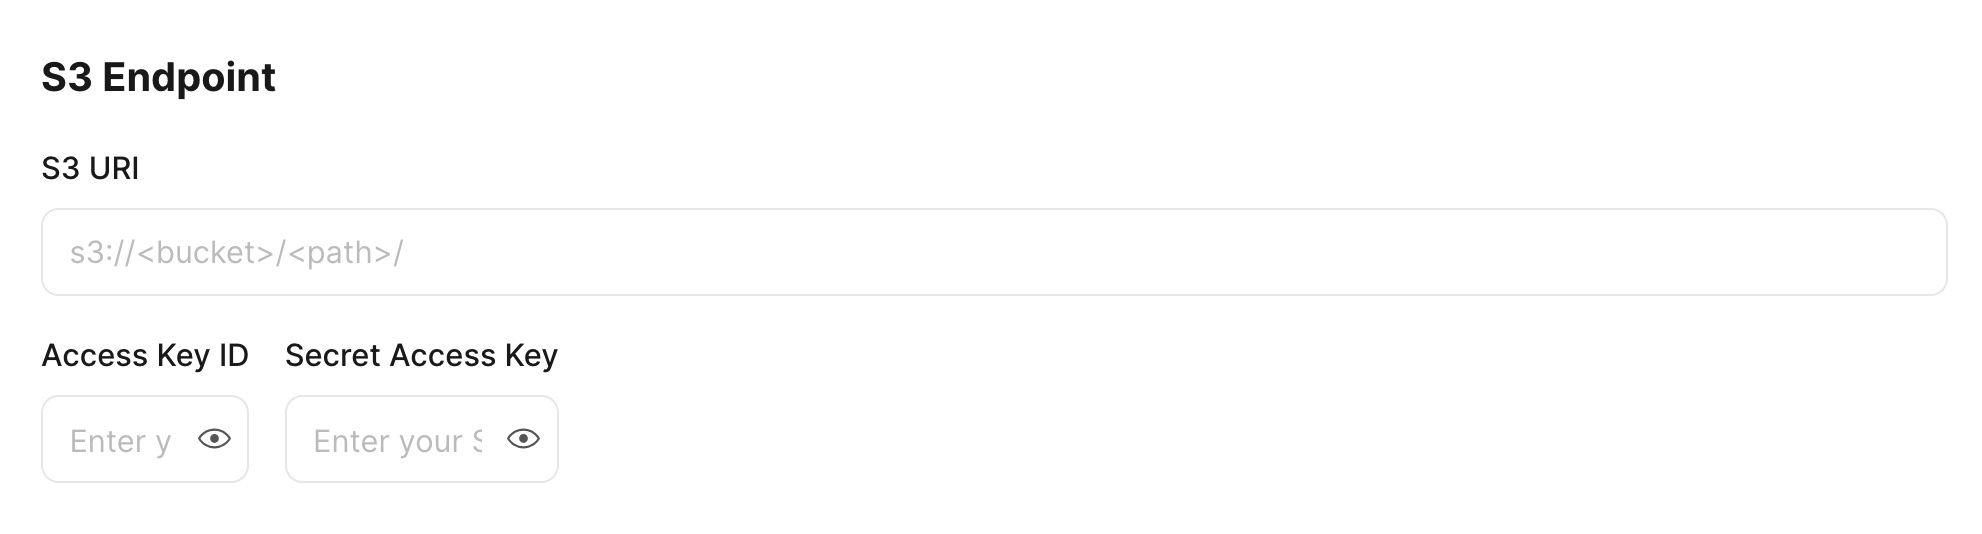
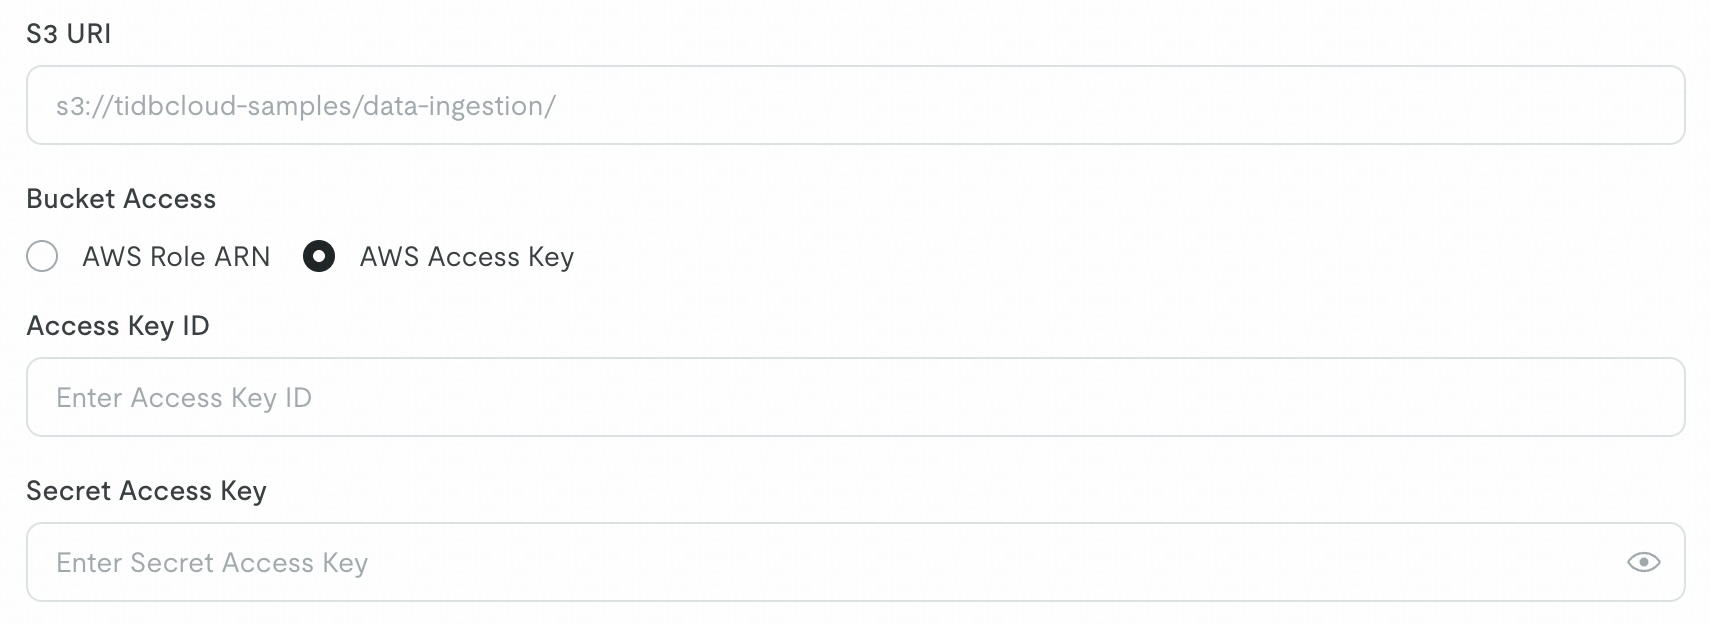
Add guide for sink to S3 with RoleARN

diff --git a/tidb-cloud/changefeed-sink-to-cloud-storage.md b/tidb-cloud/changefeed-sink-to-cloud-storage.md
@@ -25,7 +25,37 @@ Navigate to the cluster overview page of the target TiDB cluster. Click **Data**
 <SimpleTab>
 <div label="Amazon S3">
 
-For **Amazon S3**, fill the **S3 Endpoint** area: `S3 URI`, `Access Key ID`, and `Secret Access Key`. Make the S3 bucket in the same region with your TiDB cluster.
+For **Amazon S3**, you can use either **AWS Role ARN** or **AWS Access Key** for authentication. Using **AWS Role ARN** is recommended for better security and easier management.
+
+Make sure that the S3 bucket is in the same region as your TiDB cluster.
+
+#### Option 1: AWS Role ARN (Recommended)
+
+To use an IAM Role for authentication, follow these steps:
+
+1.  In the TiDB Cloud console, go to the **Configure Destination** page for the S3 sink.
+2.  Fill in the **S3 URI**.
+3.  Under **Bucket Access**, select **AWS Role ARN**.
+4.  To create a new Role ARN, click the **Click here** link to use the AWS CloudFormation template. This will automatically configure the necessary permissions.
+    - If you prefer to create the role manually, click **Create Role ARN manually** to view the TiDB Cloud account information and the required policy.
+5.  Ensure your IAM role has at least the following permissions for the target bucket:
+    - `s3:ListBucket`
+    - `s3:PutObject`
+    - `s3:GetObject`
+    - `s3:DeleteObject`
+6.  Paste the generated **Role ARN** into the corresponding field.
+
+![s3_endpoint](/media/tidb-cloud/changefeed/sink-to-cloud-storage-s3-endpoint-arn.jpg)
+
+#### Option 2: AWS Access Key
+
+> [!IMPORTANT]
+> Using Access Key and Secret Key (AK/SK) requires manual credential management and rotation, which increases security risks. For better security, it is recommended to use **AWS Role ARN** instead.
+
+To use an access key, fill in the following fields:
+- **S3 URI**
+- **Access Key ID**
+- **Secret Access Key**
 
 ![s3_endpoint](/media/tidb-cloud/changefeed/sink-to-cloud-storage-s3-endpoint.jpg)
 
